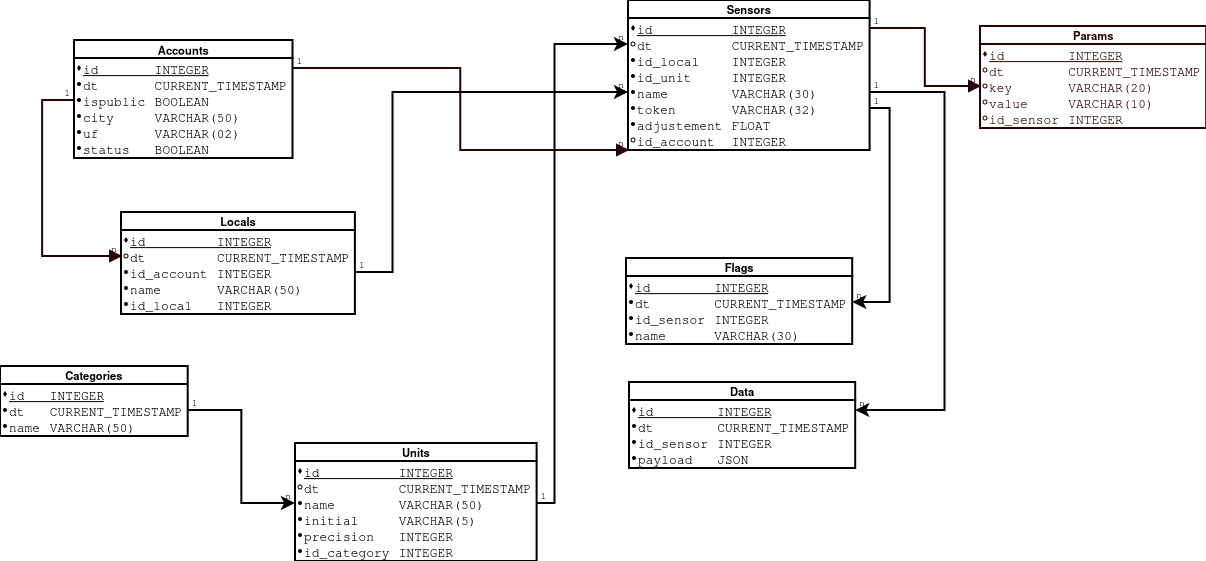
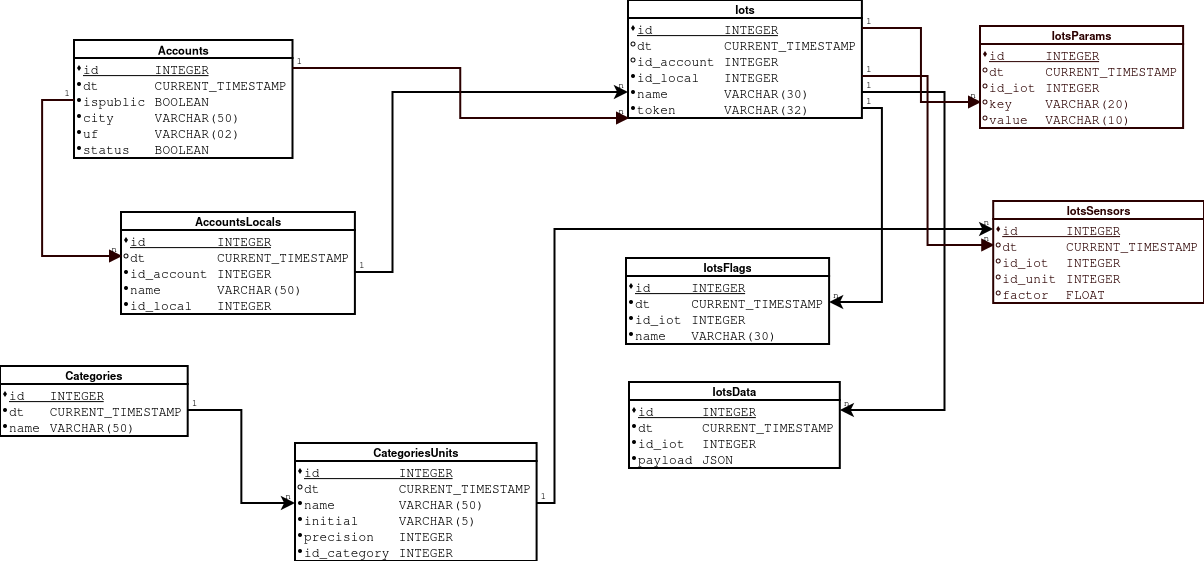
update schemas

diff --git a/dae/subscriber.c b/dae/subscriber.c
@@ -22,14 +22,14 @@ const char verbose_param[]  = "-v";
  *  Global variables
  */
 int verbose = 0;
-char config_file[LEN_BUFFER]   = "server.conf";
+char config_file[LEN_BUFFER]   = "sensoriando.conf";
 
-char db_host[LEN_BUFFER] = "localhost";
+char db_host[LEN_BUFFER];
 char db_name[LEN_BUFFER];
 char db_username[LEN_BUFFER];
 char db_password[LEN_BUFFER];
 
-char mqtt_server[LEN_BUFFER] = "localhost";
+char mqtt_server[LEN_BUFFER];
 char mqtt_username[LEN_BUFFER];
 char mqtt_password[LEN_BUFFER];
 
@@ -95,12 +95,17 @@ main(int argc, char *argv[])
     /* 
      * Init MQTT (conect & subscribe) 
      */
-    MQTTClient_create(&client, mqtt_server, MQTT_ID, MQTTCLIENT_PERSISTENCE_NONE, NULL);
+    rc = MQTTClient_create(&client, mqtt_server, MQTT_ID, MQTTCLIENT_PERSISTENCE_NONE, NULL);
+
+    if ( rc != MQTTCLIENT_SUCCESS ) {
+	    printf("Error on create MQTTClient, return code: %d\n", rc);
+	    return 1;
+    }
 
     conn_opts.keepAliveInterval = 20;
     conn_opts.cleansession = 1;
-    //conn_opts.username = "teste";
-    //conn_opts.password = "teste"; 
+    conn_opts.username = mqtt_username;
+    conn_opts.password = mqtt_password; 
 
     MQTTClient_setCallbacks(client, NULL, NULL, on_message, NULL);
 
@@ -112,6 +117,11 @@ main(int argc, char *argv[])
     }
 
     MQTTClient_subscribe(client, MQTT_TOPIC, MQTT_QOS);
+
+    if ( verbose ) {
+        printf("\nWaiting payload... \n");
+    }
+
    
     while (1) {       
 
@@ -207,28 +217,32 @@ setconfig()
         fgets( buffer, LEN_BUFFER, fd );
 
         if ( buffer[0] != '#' ) {
-            if ( strstr(buffer, "host") ) {
-                sscanf(buffer, "host=%s\n", mqtt_server);
+            if ( strstr(buffer, "mqtt_host") ) {
+                sscanf(buffer, "mqtt_host=%s\n", mqtt_server);
             }
 
-            if ( strstr(buffer, "username") ) {
-                sscanf(buffer, "username=%s\n", mqtt_username);
+            if ( strstr(buffer, "mqtt_user") ) {
+                sscanf(buffer, "mqtt_user=%s\n", mqtt_username);
             }
 
-            if ( strstr(buffer, "password") ) {
-                sscanf(buffer, "password=%s\n", mqtt_password);
+            if ( strstr(buffer, "mqtt_passwd") ) {
+                sscanf(buffer, "mqtt_passwd=%s\n", mqtt_password);
             }
 
-            if ( strstr(buffer, "name") ) {
-                sscanf(buffer, "name=%s\n", db_name);
+            if ( strstr(buffer, "db_host") ) {
+                sscanf(buffer, "db_host=%s\n", db_host);
             }
  
-            if ( strstr(buffer, "dbuser") ) {
-                sscanf(buffer, "dbuser=%s\n", db_username);
+            if ( strstr(buffer, "db_name") ) {
+                sscanf(buffer, "db_name=%s\n", db_name);
+            }
+ 
+            if ( strstr(buffer, "db_user") ) {
+                sscanf(buffer, "db_user=%s\n", db_username);
             }
 
-            if ( strstr(buffer, "dbpasswd") ) {
-                sscanf(buffer, "dbpasswd=%s\n", db_password);
+            if ( strstr(buffer, "db_passwd") ) {
+                sscanf(buffer, "db_passwd=%s\n", db_password);
             }
 
         }

diff --git a/dae/database.c b/dae/database.c
@@ -59,9 +59,9 @@ sensor_serialkey_get(PGconn *conn, char *serialkey)
     char sql[256];
     int rows;
 
-    sprintf(sql, "SELECT id, dt, user_ptr_id, id_local, id_category, name, serialkey \
-                  FROM Sensor \
-                  WHERE serialkey = '%s'", serialkey);
+    sprintf(sql, "SELECT id, dt, id_local, id_account, name, token \
+                  FROM Iots \
+                  WHERE token = '%s'", serialkey);
 
     res = PQexec(conn, sql);    
     rows = PQntuples(res);
@@ -72,11 +72,10 @@ sensor_serialkey_get(PGconn *conn, char *serialkey)
         if ( data != NULL ) {
             data->id = atoi(PQgetvalue(res, 0, 0));
             sprintf(data->dt, "%s", PQgetvalue(res, 0, 1));
-            data->user_ptr_id = atoi(PQgetvalue(res, 0, 2));
-            data->id_local = atoi(PQgetvalue(res, 0, 3));
-            data->id_category = atoi(PQgetvalue(res, 0, 4));
-            sprintf(data->name, "%s", PQgetvalue(res, 0, 5));
-            sprintf(data->serialkey, "%s", PQgetvalue(res, 0, 6));
+            data->id_local = atoi(PQgetvalue(res, 0, 2));
+            data->id_account = atoi(PQgetvalue(res, 0, 3));
+            sprintf(data->name, "%s", PQgetvalue(res, 0, 4));
+            sprintf(data->serialkey, "%s", PQgetvalue(res, 0, 5));
         } else {
             printf("Error malloc\n");
         }

diff --git a/dae/database.h b/dae/database.h
@@ -18,9 +18,9 @@
 typedef struct {
     int id;
     char dt[20];
-    int user_ptr_id;
     int id_local;
     int id_category;
+    int id_account;
     char name[30];
     char serialkey[64];
 } Sensor;
